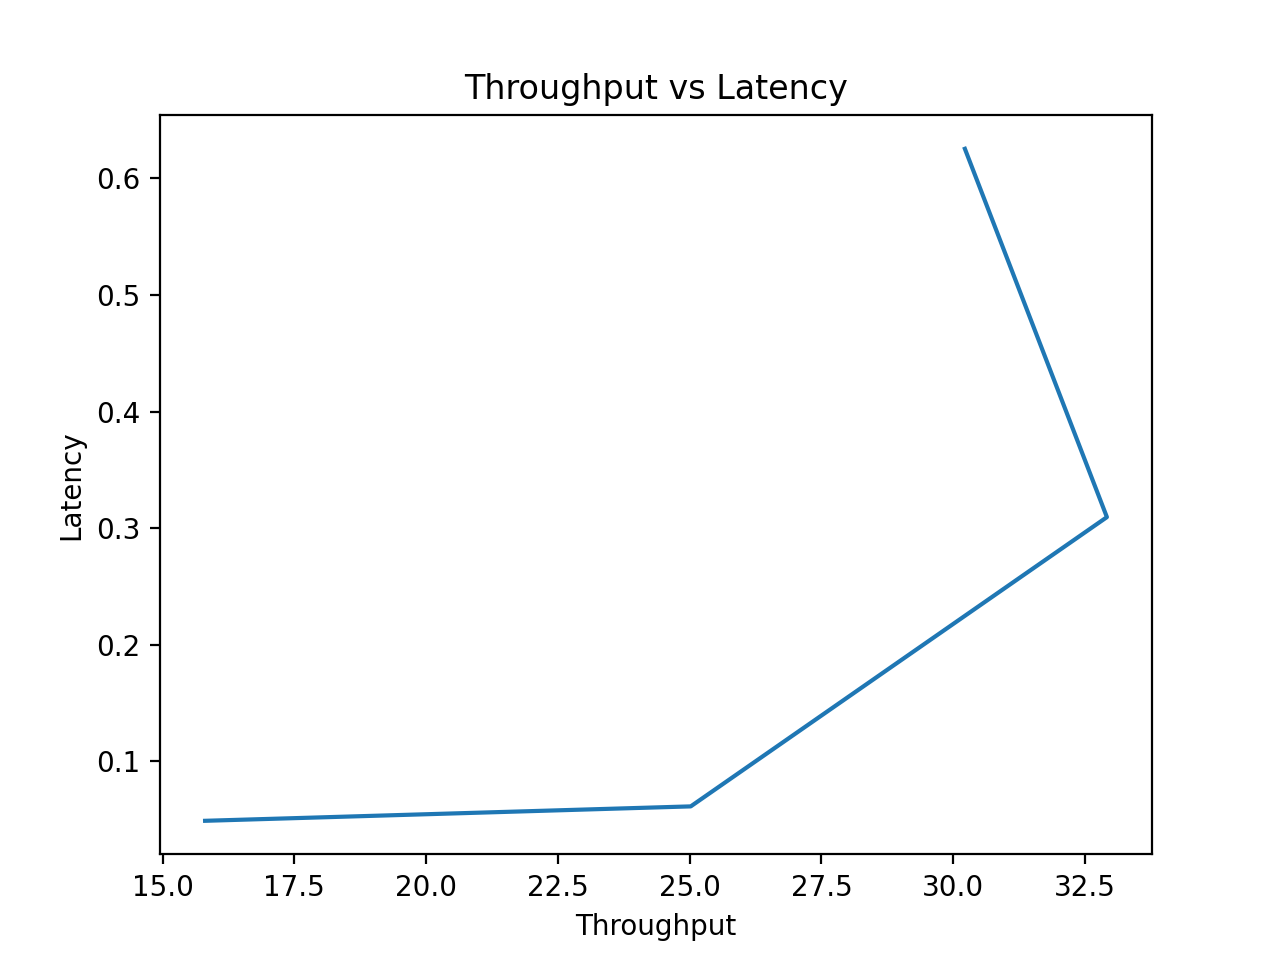
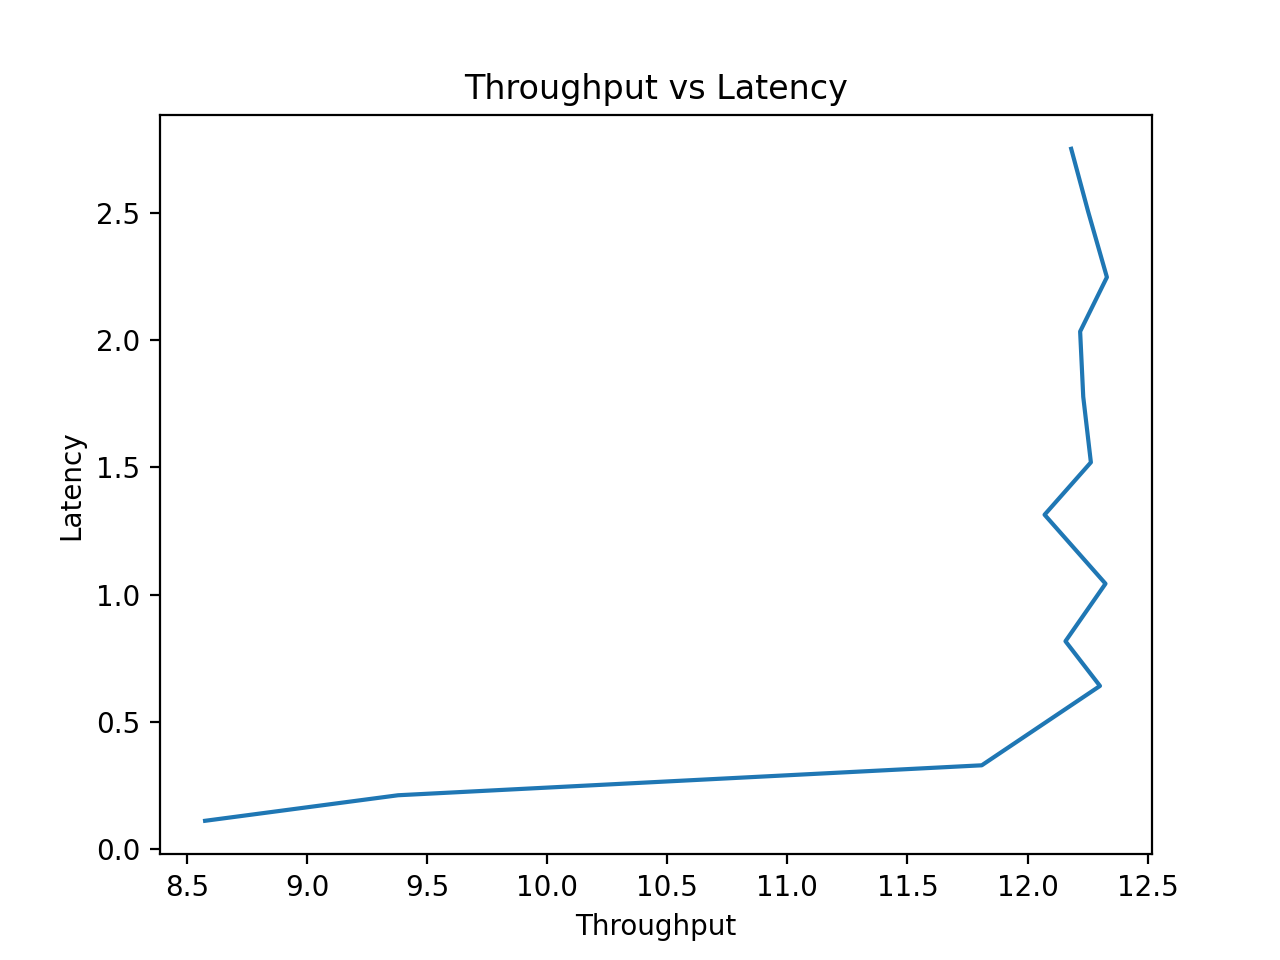
plotting changes

diff --git a/server/raft/kv_server.py b/server/raft/kv_server.py
@@ -35,17 +35,16 @@ class KVStoreServicer(kvstore_pb2_grpc.KVStoreServicer):
     def init_log_exec(self):
        #  Periodically execute entries from durability log.
         while True:
-            
             if globals.state == NodeRole.Leader:
                 pp = len(dur_log_manager.entries)
                 log_me(f"I am the leader, clearing out durability logs periodically")
                 # Start executing
-                entry = dur_log_manager.peek_head_entry()
+                entry = dur_log_manager.package_all_log()
                 if entry is not None:
-                    is_consensus, error = raft_node.serve_put_request(entry.key, entry.value)
+                    is_consensus, error = raft_node.serve_put_request(entry.key, entry.value, is_multi_cmd=True)
                     if is_consensus:
-                        #self.sync_kv_store_with_logs()
-                        dur_log_manager.pop_head_entry()
+                        self.sync_kv_store_with_logs()
+                        dur_log_manager.clear_all_entries()
                     else:
                         error = "No consensus was reached. Try again."
                         print(error)
@@ -116,27 +115,20 @@ class KVStoreServicer(kvstore_pb2_grpc.KVStoreServicer):
             return kvstore_pb2.GetResponse(key_exists=False, is_redirect=True, redirect_server=globals.leader_name)
 
         if (dur_log_manager.is_key_in_durable_log(request.key)):
-            # DO PUT WITH RAFT CONSENSUS!!!!
-            while(True):
-                entry = dur_log_manager.peek_head_entry()
-                is_consensus, error = raft_node.serve_put_request(entry.key, entry.value)
+            # Start executing
+            entry = dur_log_manager.package_all_log()
+            if entry is not None:
+                is_consensus, error = raft_node.serve_put_request(entry.key, entry.value, is_multi_cmd=True)
                 if is_consensus:
-                    self.sync_kv_store_with_logs()
-                    dur_log_manager.pop_head_entry()
+                    dur_log_manager.clear_all_entries()
                 else:
                     error = "No consensus was reached. Try again."
                     print(error)
-                    # what else to do here???? While will retry head again
-                    # return kvstore_pb2.GetResponse()
-                if (entry.key == request.key):
-                    # check if there are anymore entries in the durability log for this key
-                    print(f"Put key {request.key} from durability log with value {entry.value}")
-                    if (not dur_log_manager.is_key_in_durable_log(request.key)): break
 
         # Put for Entry already executed
-        print("Put for Entry executed===")
         # Can be done in a separate thread.
         self.sync_kv_store_with_logs()
+        log_me(f"Get call for {request.key} Sync done")
         if request.key == "FLUSH_CALL_STATS":
             stats.flush()
 

diff --git a/server/raft/dur_log_manager.py b/server/raft/dur_log_manager.py
@@ -1,4 +1,4 @@
-import time
+from time import time,sleep
 import os
 import pickle
 import shelve
@@ -28,6 +28,7 @@ class DurLogManager:
         self.lock = Lock()
         self.entries = deque()  # Queue of DurLogEntry objects
         self.load_entries()  # Load entries from stable store to memory.
+        self.bloom = {}
         
         # self.log_exec_thread = Thread(target=self.init_log_exec)
         # self.log_exec_thread.start()
@@ -50,9 +51,10 @@ class DurLogManager:
         print("DurLogManager append: dur_log_mgr =\n")
         log_entry = DurLogEntry(request_type, key, value)
         with self.lock:
+            self.bloom[key] = 1
             log_me(f"Adding {log_entry.request_type} Entry to Durability Log")
             self.entries.append(log_entry)
-            # self.flush_log_to_disk()
+            self.flush_log_to_disk()
 
     # Returns entry at head of queue without removing it from the queue
     def peek_head_entry(self):
@@ -66,13 +68,15 @@ class DurLogManager:
         with self.lock:
             if len(self.entries) != 0:
                 self.entries.pop(0)
-            # self.flush_log_to_disk()
+            self.flush_log_to_disk()
 
     def package_all_log(self):
         all_key = []
         all_value = []
-        entry = DurLogEntry("PUT")
         with self.lock:
+            if len(self.entries) == 0:
+                return None
+
             for entry in self.entries:
                 all_key.append(entry.key)
                 all_value.append(entry.value)
@@ -80,6 +84,11 @@ class DurLogManager:
             return DurLogEntry("MULTI_PUT", json.dumps(all_key), json.dumps(all_value))
 
     def flush_log_to_disk(self):
+        if len(self.entries) > 0:
+            sleep(0.02)
+            return None
+
+        t1 = time()
         log_file = shelve.open(RAFT_LOG_PATH)
         log_me("opened shelf")
         if len(self.entries) == 0:
@@ -88,22 +97,24 @@ class DurLogManager:
             log_file[str(log_file["SHELF_SIZE"])] = self.entries[-1]
             log_file["SHELF_SIZE"] += 1
         log_file.close()
-        return "just testing"
+        t2 = time()
+        log_me(f"flush took {t2 - t1}")
 
     def is_key_in_durable_log(self, key):
-        for entry in self.entries:
-            if entry.key == key:
-                return True
-        return False
+        with self.lock:
+            return key in self.bloom
     
     def clear_entry_from_durable_log(self, key, value):
         log_entry = DurLogEntry("PUT", key, value)
         if (log_entry in self.entries):
             self.entries.remove(log_entry)
-            # with self.lock:
-            #     self.flush_log_to_disk()
+            with self.lock:
+                self.flush_log_to_disk()
 
     def clear_all_entries(self):
-        self.entries.clear()
+        with self.lock:
+            self.entries.clear()
+            self.flush_log_to_disk()
+            self.bloom = {}
 
 dur_log_manager = DurLogManager()

diff --git a/client/measure_perf.py b/client/measure_perf.py
@@ -11,7 +11,7 @@ import numpy as np
 
 import client
 
-NUM_OPS_PER_CLIENT = 20
+NUM_OPS_PER_CLIENT = 10
 
 sys.path.append('../')
 
@@ -42,10 +42,11 @@ def measure_get(key):
 def run_put_exp():
     latencies, batch_throughputs = [], []
 
-    # points = [1, 2, 3, 4, 6,8, 9]
-    points = [1,2]
-    # points.extend([i for i in range(10, 101, 10)])
-    points.extend([i for i in range(10, 21, 10)])
+    points = [1, 2, 4, 8]
+    # points = [1,2]
+    points.extend([i for i in range(10, 26, 2)])
+    # points.extend([i for i in range(10, 41, 10)])
+    num_ops = 100
     for thread_count in points:
         batch = []
         print(f"Collecting PUT stats with {thread_count} threads")
@@ -54,12 +55,12 @@ def run_put_exp():
             key = f"KEY-{random.randint(1, pow(10, 10))}"
             value = f"Value-{random.randint(1, pow(10, 10))}"
             t1 = time()
-            future_calls = {executor.submit(
-                measure_nil_ext_put, key, value) for _ in range(thread_count)}
+            future_calls = {executor.submit(measure_nil_ext_put, key, value) for _ in range(thread_count)}
             for completed_task in as_completed(future_calls):
                 batch.extend(completed_task.result())
             t2 = time()
             batch_throughputs.append((thread_count, thread_count * NUM_OPS_PER_CLIENT / (t2 - t1)))
+            print(f"got throughput {batch_throughputs[-1]}")
         latencies.append((thread_count, batch))
 
     x, y = zip(*batch_throughputs)
@@ -75,6 +76,7 @@ def zipfian_op(write_per):
     # 
     op_choice = np.random.randint(1, 101)
     if op_choice < write_per:
+        print("write call")
         # Perform write operation.
         time1 = time()
         client.send_nil_ext_put(key, value)
@@ -82,6 +84,7 @@ def zipfian_op(write_per):
 
         return time2 - time1
     else:
+        print("get call")
         time1 = time()
         client.send_get(key)
         time2 = time()
@@ -106,10 +109,10 @@ def run_mixed_exp():
     latencies, batch_throughputs = [], []
 
     # Fix num_clients = 10.
-    num_clients = 10
-    num_ops = 1000
+    num_clients = 1
+    num_ops = 100
 
-    points = [i for i in range(10, 21, 10)]
+    points = [i for i in range(10, 101, 5)]
     for write_per in points:
         batch = []
         print(f"Collecting Mixed stats for {write_per} percentage")
@@ -223,8 +226,8 @@ def plot_put_data(file_prefix):
     plt.clf()
 
 if __name__ == '__main__':
-    # collect_stats(run_put_exp, "PUT")
-    # plot_put_data("PUT")
+    collect_stats(run_put_exp, "PUT")
+    plot_put_data("PUT")
 
-    collect_stats(run_mixed_exp, "MIXED")
-    plot_put_data("MIXED")
+    # collect_stats(run_mixed_exp, "MIXED")
+    # plot_put_data("MIXED")

diff --git a/server/raft/node.py b/server/raft/node.py
@@ -26,7 +26,7 @@ class RaftNode:
             log_me(f"Updating commit index for {key}")
             globals.set_commit_index(index)
             # Clear the entry pertaining to this request if present in my durability log
-            dur_log_manager.clear_entry_from_durable_log(key, value)
+            # dur_log_manager.clear_entry_from_durable_log(key, value)
 
         log_me(f"Finished PUT {key}:{value} request ")
 
